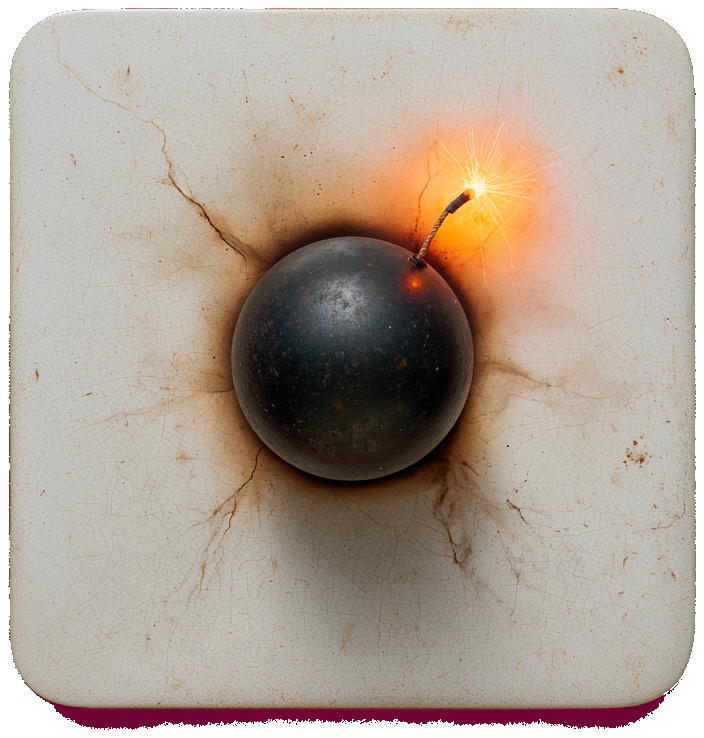
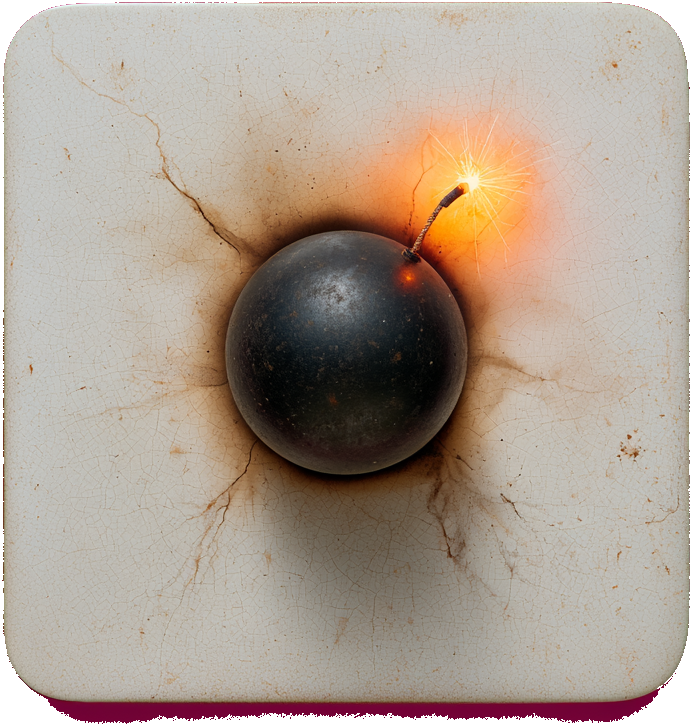
Fix HUD gauge overflow and tighten tile crop for true edge-to-edge fit
Timer/level-progress bars were drawn wider than their HUD frame and
overlapped the mute/rules buttons; narrowed to fit inside the frame.
Tile PNGs still had a few px of leftover transparent padding from an
earlier crop pass, which read as a gap between adjacent tiles even
with tileGap=0 in code — retightened all 9 to their true alpha bounds.
Also pinned the friction-spark emitter's depth so it always renders
above tiles regardless of asset changes or tile creation order.

diff --git a/index.html b/index.html
@@ -294,6 +294,7 @@ class MainScene extends Phaser.Scene {
       frequency: 40,
       tint: [0xfff176, 0xffd700, 0xffffff]
     });
+    emitter.setDepth(5);
     emitter.startFollow(tile.image);
     this.time.delayedCall(duration, () => {
       emitter.stop();
@@ -359,7 +360,7 @@ class MainScene extends Phaser.Scene {
     // 3. 타이머 바
     this.timerBarBg = this.add.graphics();
     this.timerBarBg.fillStyle(0x222222, 0.8);
-    this.timerBarBg.fillRoundedRect(30, 45, GAME_WIDTH - 60, 8, 4);
+    this.timerBarBg.fillRoundedRect(30, 45, GAME_WIDTH - 85, 8, 4);
 
     this.timerBar = this.add.graphics();
     this.maxTime = 150;
@@ -368,7 +369,7 @@ class MainScene extends Phaser.Scene {
     // 3-1. 다음 레벨까지 남은 점수 진행도 바
     this.levelProgressBarBg = this.add.graphics();
     this.levelProgressBarBg.fillStyle(0x222222, 0.8);
-    this.levelProgressBarBg.fillRoundedRect(30, 60, GAME_WIDTH - 60, 6, 3);
+    this.levelProgressBarBg.fillRoundedRect(30, 60, GAME_WIDTH - 85, 6, 3);
 
     this.levelProgressBar = this.add.graphics();
 
@@ -804,7 +805,7 @@ class MainScene extends Phaser.Scene {
   updateTimerBar(gameWidth) {
     this.timerBar.clear();
     const pct = Math.max(0, this.timeLeft / this.maxTime);
-    const barWidth = (gameWidth - 60) * pct;
+    const barWidth = (gameWidth - 85) * pct;
     const color = pct < 0.3 ? 0xe74c3c : 0x2ecc71;
 
     this.timerBar.fillStyle(color, 1);
@@ -818,7 +819,7 @@ class MainScene extends Phaser.Scene {
     const pct = this.level >= LEVEL_CAP
       ? 1
       : Math.max(0, Math.min(1, (this.score - segStart) / this.levelIncrement));
-    const barWidth = (gameWidth - 60) * pct;
+    const barWidth = (gameWidth - 85) * pct;
 
     this.levelProgressBar.fillStyle(0xffd700, 1);
     this.levelProgressBar.fillRoundedRect(30, 60, barWidth, 6, 3);

diff --git a/DEVLOG.md b/DEVLOG.md
@@ -1,5 +1,11 @@
 # Dev Log
 
+## 2026-07-23 (HUD 게이지 박스 오버플로우 수정 + 타일 재크롭)
+
+- **HUD 게이지 바 오버플로우 수정**: 시간 바/레벨 진행도 바가 자신을 감싸는 HUD 프레임보다 길게 그려져(오른쪽 끝이 프레임보다 10px, 음소거/규칙 버튼보다도 5px 더 나가서) 박스와 버튼을 침범하던 버그 수정. 폭 계산 기준을 `gameWidth-60`→`gameWidth-85`로 변경(4곳: 배경 바 2개 생성 코드 + `updateTimerBar`/`updateLevelProgressBar` 각각의 폭 계산)해서 왼쪽 여백(15px)과 대칭으로 프레임 안쪽에 들어오고 버튼과도 20px 간격이 생기도록 정리.
+- **타일 밀착 재점검**: "간격 0이 기술적으로 불가능해서 안 한 거냐"는 질문에, 코드상 `tileGap`은 이미 0이라 확인했고 실제 원인은 타일 PNG 애셋 자체에 남은 자잘한 투명 여백(이전 크롭 시 `pad=8`이 그대로 남아있거나, gem/lava/ice는 14~26px 정도 비대칭 여백)이었음. 알파 채널의 실제 불투명 영역만 다시 계산해서 `pad=2`로 9종 타일 PNG를 전부 재크롭(`assets/tile_*.png`) — 크롭 전 버전은 `assets/originals/*_precrop2.png`로 백업. 예: `tile_gem.png` 765×765→718×741, `tile_lava.png` 765×765→739×722. `tile_coral.png`은 이미 여백 0으로 완벽했음.
+- **마찰 스파크 depth 고정**: 타일 재크롭과 무관하게 스파크가 항상 타일 위에 보이도록 `startFrictionSparks()`의 파티클 이미터에 `emitter.setDepth(5)` 추가 — 같은 낙하 묶음에서 스파크보다 나중에 리필되는 타일이 이미터를 가리는 엣지 케이스 방지.
+
 ## 2026-07-23 (실플레이 피드백 12건: 규칙/방해타일/UX 전면 개편)
 
 계획 파일: `~/.claude/plans/linked-marinating-glacier.md` (plan mode로 사전 승인받고 진행)
